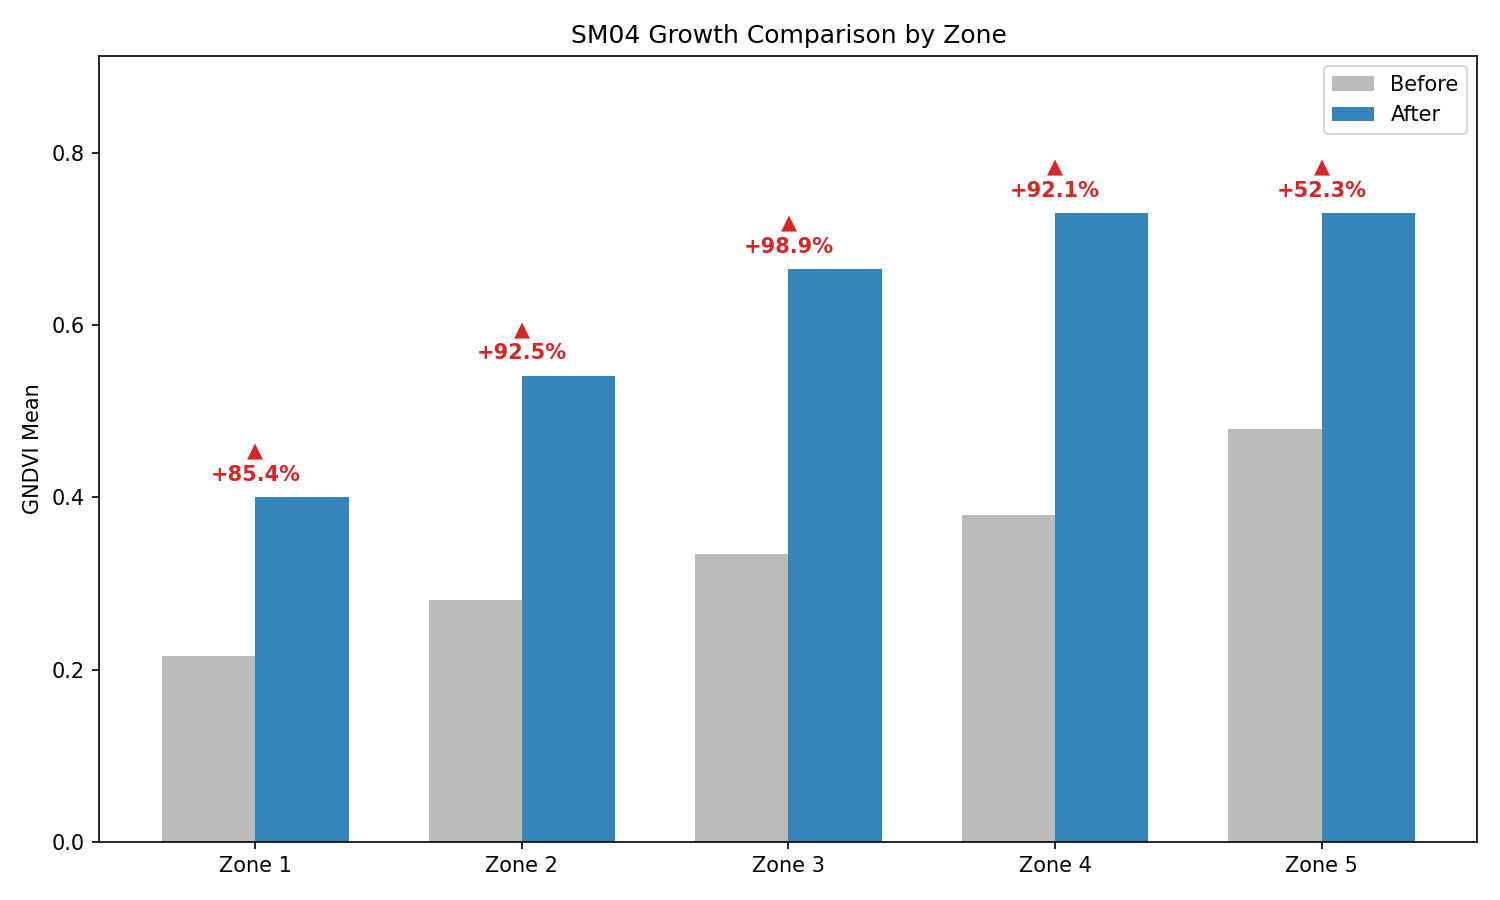
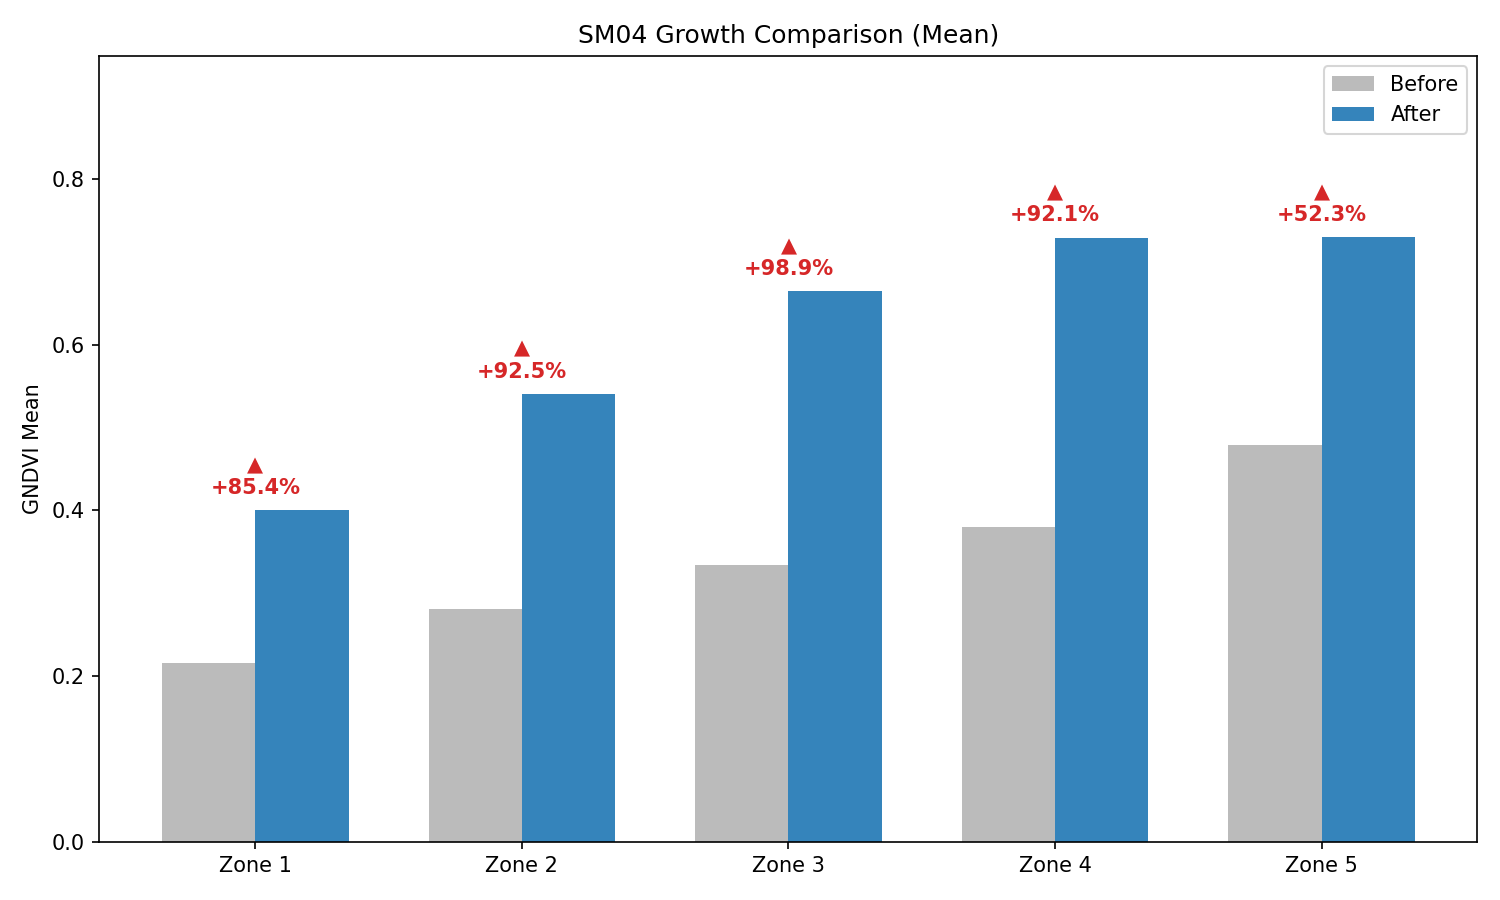
수정수정

diff --git a/1.vra_1m_gndvi.py b/1.vra_1m_gndvi.py
@@ -11,9 +11,9 @@ import matplotlib.patches as mpatches
 # =========================================================
 # [설정 영역] 사용자 경로 및 파라미터
 # =========================================================
-DIR_BEFORE = r"D:\회사관련\VRA_analysis\before_data"  # 기준 (Before)
-DIR_AFTER = r"D:\회사관련\VRA_analysis\after_data"  # 비교 (After)
-DIR_OUTPUT = r"D:\회사관련\VRA_analysis\Result_Images"  # 결과 저장 폴더
+DIR_BEFORE = r"C:\Users\user\Desktop\분석프로젝트\VRA_analysis\before_data"  # 기준 (Before)
+DIR_AFTER = r"C:\Users\user\Desktop\분석프로젝트\VRA_analysis\after_data"  # 비교 (After)
+DIR_OUTPUT = r"C:\Users\user\Desktop\분석프로젝트\VRA_analysis\Result_Images"  # 결과 저장 폴더
 
 # 목표 해상도 (1m)
 TARGET_GSD = 1.0
@@ -190,70 +190,124 @@ def save_growth_plot(growth_map, title, save_path):
 
 
 # ---------------------------------------------------------
-# [시각화 4] 막대그래프 (신규 추가)
+# [시각화 4] 성장 비교 막대그래프 (Mean)
 # ---------------------------------------------------------
 def save_growth_bar_chart(stats_summary, field_code, save_path):
-    """
-    Zone별 Before/After Mean 비교 막대그래프 생성
-    """
     zones = [f"Zone {i}" for i in range(1, 6)]
-    before_means = [d['before'] for d in stats_summary]
-    after_means = [d['after'] for d in stats_summary]
-    rates = [d['rate'] for d in stats_summary]
+    before_means = [d['before_mean'] for d in stats_summary]
+    after_means = [d['after_mean'] for d in stats_summary]
+    rates = [d['growth_rate'] for d in stats_summary]
 
-    x = np.arange(len(zones))  # 레이블 위치
-    width = 0.35  # 막대 너비
+    x = np.arange(len(zones))
+    width = 0.35
 
     fig, ax = plt.subplots(figsize=(10, 6))
-
-    # 막대 생성 (Before: 회색, After: 파란색)
     rects1 = ax.bar(x - width / 2, before_means, width, label='Before', color='#aaaaaa', alpha=0.8)
     rects2 = ax.bar(x + width / 2, after_means, width, label='After', color='#1f77b4', alpha=0.9)
 
-    # 레이블링
     ax.set_ylabel('GNDVI Mean')
-    ax.set_title(f'{field_code} Growth Comparison by Zone')
+    ax.set_title(f'{field_code} Growth Comparison (Mean)')
     ax.set_xticks(x)
     ax.set_xticklabels(zones)
     ax.legend()
 
-    # Y축 범위 설정 (화살표 공간 확보)
     max_val = max(max(before_means), max(after_means)) if before_means else 0
-    ax.set_ylim(0, max_val * 1.25)
+    ax.set_ylim(0, max_val * 1.3)
 
-    # 증감율 텍스트/화살표 표시
     for i in range(len(zones)):
         h_a = after_means[i]
         h_b = before_means[i]
         rate = rates[i]
-
-        if h_b == 0: continue  # 데이터 없는 경우 패스
-
-        # 표시 위치 (더 높은 막대 위)
+        if h_b == 0: continue
         y_pos = max(h_a, h_b) + (max_val * 0.02)
-
-        # 스타일 결정
         if rate > 0:
-            marker = "▲"
-            color = "#d62728"  # 빨강 (성장)
-            text = f"+{rate:.1f}%"
+            marker, color, text = "▲", "#d62728", f"+{rate:.1f}%"
         elif rate < 0:
-            marker = "▼"
-            color = "#1f77b4"  # 파랑 (감소)
-            text = f"{rate:.1f}%"
+            marker, color, text = "▼", "#1f77b4", f"{rate:.1f}%"
         else:
-            marker = "-"
-            color = "black"
-            text = "0.0%"
-
-        # 텍스트 추가
-        ax.text(x[i], y_pos, f"{marker}\n{text}", ha='center', va='bottom',
-                color=color, fontweight='bold', fontsize=10)
+            marker, color, text = "-", "black", "0.0%"
+        ax.text(x[i], y_pos, f"{marker}\n{text}", ha='center', va='bottom', color=color, fontweight='bold', fontsize=10)
 
     plt.tight_layout()
     plt.savefig(save_path, dpi=150)
     plt.close()
     print(f"      └ [이미지 4] {os.path.basename(save_path)}")
+
+
+# ---------------------------------------------------------
+# [시각화 5] 변동계수(CV) 비교 막대그래프 (신규 - 균일도 분석)
+# ---------------------------------------------------------
+def save_cv_chart(stats_summary, field_code, save_path):
+    """
+    Zone별 Before/After 변동계수(CV) 비교 막대그래프
+    - CV = (Std / Mean) * 100
+    - CV가 낮을수록 균일도가 좋음 (감소 = 개선)
+    """
+    zones = [f"Zone {i}" for i in range(1, 6)]
+    before_cvs = [d['before_cv'] for d in stats_summary]
+    after_cvs = [d['after_cv'] for d in stats_summary]
+
+    # CV 변화율 계산
+    rates = []
+    for b, a in zip(before_cvs, after_cvs):
+        if b != 0:
+            rates.append((a - b) / b * 100)
+        else:
+            rates.append(0.0)
+
+    x = np.arange(len(zones))
+    width = 0.35
+
+    fig, ax = plt.subplots(figsize=(10, 6))
+
+    # 막대 생성 (Before: 회색, After: 보라색 계열로 차별화)
+    rects1 = ax.bar(x - width / 2, before_cvs, width, label='Before', color='#aaaaaa', alpha=0.8)
+    rects2 = ax.bar(x + width / 2, after_cvs, width, label='After', color='#9467bd', alpha=0.9)
+
+    ax.set_ylabel('Coefficient of Variation (CV %)')
+    ax.set_title(f'{field_code} Uniformity Comparison (CV = Std/Mean)')
+    ax.set_xticks(x)
+    ax.set_xticklabels(zones)
+    ax.legend()
+
+    # Y축 범위 설정
+    max_val = max(max(before_cvs), max(after_cvs)) if before_cvs else 0
+    if max_val == 0: max_val = 1
+    ax.set_ylim(0, max_val * 1.35)
+
+    # 증감율 및 해석 표시
+    for i in range(len(zones)):
+        h_a = after_cvs[i]
+        h_b = before_cvs[i]
+        rate = rates[i]
+
+        if h_b == 0: continue
+
+        y_pos = max(h_a, h_b) + (max_val * 0.02)
+
+        # CV 해석 로직:
+        # CV 감소(▼) = 상대적 편차 감소 = 균일도 개선 (좋음) -> 파란색
+        # CV 증가(▲) = 상대적 편차 증가 = 균일도 악화 (나쁨) -> 빨간색
+        if rate < 0:
+            marker = "▼"
+            color = "#1f77b4"  # 파랑 (개선됨)
+            text = f"{rate:.1f}%\n(Improved)"
+        elif rate > 0:
+            marker = "▲"
+            color = "#d62728"  # 빨강 (악화됨)
+            text = f"+{rate:.1f}%\n(Worse)"
+        else:
+            marker = "-"
+            color = "black"
+            text = "0.0%"
+
+        ax.text(x[i], y_pos, f"{marker} {text}", ha='center', va='bottom',
+                color=color, fontweight='bold', fontsize=9)
+
+    plt.tight_layout()
+    plt.savefig(save_path, dpi=150)
+    plt.close()
+    print(f"      └ [이미지 5] {os.path.basename(save_path)}")
 
 
 def process_field(field_code):
@@ -276,15 +330,21 @@ def process_field(field_code):
     zone_map = np.zeros_like(data_b, dtype=np.uint8)
     zone_map[mask_b] = np.digitize(data_b[mask_b], bins)
 
-    # Before Stats 계산
+    # Before Stats 계산 (Std 추가)
     before_stats_list = []
     mean_b_list = []
     for z in range(1, 6):
         vals = data_b[(zone_map == z)]
         if len(vals) > 0:
-            stats = {'min': np.min(vals), 'max': np.max(vals), 'mean': np.mean(vals), 'count': len(vals)}
+            stats = {
+                'min': np.min(vals),
+                'max': np.max(vals),
+                'mean': np.mean(vals),
+                'std': np.std(vals),
+                'count': len(vals)
+            }
         else:
-            stats = {'min': 0, 'max': 0, 'mean': 0, 'count': 0}
+            stats = {'min': 0, 'max': 0, 'mean': 0, 'std': 0, 'count': 0}
         before_stats_list.append(stats)
         mean_b_list.append(stats['mean'])
 
@@ -300,15 +360,12 @@ def process_field(field_code):
     # ==========================
     # 이미지 저장
     # ==========================
-    # [1] Before
     save_before_plot(data_b, quantiles, before_stats_list,
                      f"{field_code} Before Status",
                      os.path.join(DIR_OUTPUT, f"{field_code}_01_Before.png"))
-    # [2] After Zone
     save_after_zone_plot(zone_map, data_a_aligned, mean_b_list,
                          f"{field_code} After Status (by Zones)",
                          os.path.join(DIR_OUTPUT, f"{field_code}_02_After_ZoneStats.png"))
-    # [3] Growth Map
     save_growth_plot(growth_map, f"{field_code} Growth Rate (%)",
                      os.path.join(DIR_OUTPUT, f"{field_code}_03_GrowthRate.png"))
 
@@ -322,55 +379,62 @@ def process_field(field_code):
         z_mask = (zone_map == z)
         overlap = z_mask & (data_a_aligned > 0) & (~np.isnan(data_a_aligned))
 
-        # 기본값
+        # Before 값 (전체 Zone 기준)
         mean_b = mean_b_list[z - 1]
+        std_b = before_stats_list[z - 1]['std']
+
+        # CV 계산 (Before)
+        cv_b = (std_b / mean_b * 100) if mean_b != 0 else 0.0
+
         mean_a = 0.0
+        std_a = 0.0
+        cv_a = 0.0
         diff = 0.0
         rate = 0.0
-        a_min, a_max = 0.0, 0.0
         area = 0
 
         if np.sum(overlap) > 0:
             vals_a = data_a_aligned[overlap]
-            vals_b = data_b[overlap]  # 위치 매칭
-
             mean_a = np.mean(vals_a)
-            mean_b_overlap = np.mean(vals_b)  # 겹치는 부분의 Before 평균 (전체 평균과 미세하게 다를 수 있음)
+            std_a = np.std(vals_a)
 
-            # 차트/CSV의 일관성을 위해 겹치는 영역 기준으로 다시 계산하는 것이 더 정확할 수 있으나
-            # 여기서는 전체 Zone 평균(mean_b)과 비교하겠습니다.
+            # CV 계산 (After)
+            cv_a = (std_a / mean_a * 100) if mean_a != 0 else 0.0
 
             diff = mean_a - mean_b
             rate = (diff / mean_b * 100) if mean_b != 0 else 0.0
-
-            a_min, a_max = np.min(vals_a), np.max(vals_a)
             area = np.sum(overlap)
 
-        # CSV 데이터
+        # CV 변화율 (개선도 확인)
+        cv_change = ((cv_a - cv_b) / cv_b * 100) if cv_b != 0 else 0.0
+
         results.append({
             'Field': field_code,
             'Zone': f"Zone {z}",
             'Area_m2': area,
-            'Before_Min': round(before_stats_list[z - 1]['min'], 4),
             'Before_Mean': round(mean_b, 4),
-            'Before_Max': round(before_stats_list[z - 1]['max'], 4),
-            'After_Min': round(a_min, 4),
             'After_Mean': round(mean_a, 4),
-            'After_Max': round(a_max, 4),
-            'Change_Value': round(diff, 4),
-            'Growth_Rate(%)': round(rate, 2)
+            'Growth_Rate(%)': round(rate, 2),
+            'Before_CV(%)': round(cv_b, 2),  # 신규
+            'After_CV(%)': round(cv_a, 2),  # 신규
+            'CV_Change(%)': round(cv_change, 2)  # 신규 (음수면 개선)
         })
 
-        # 차트용 데이터
         stats_summary.append({
-            'before': mean_b,
-            'after': mean_a,
-            'rate': rate
+            'before_mean': mean_b,
+            'after_mean': mean_a,
+            'growth_rate': rate,
+            'before_cv': cv_b,
+            'after_cv': cv_a
         })
 
-    # [4] 막대 그래프 저장
+    # [4] 성장 비교 그래프 저장
     save_growth_bar_chart(stats_summary, field_code,
                           os.path.join(DIR_OUTPUT, f"{field_code}_04_GrowthChart.png"))
+
+    # [5] 변동계수(CV) 비교 그래프 저장 (신규)
+    save_cv_chart(stats_summary, field_code,
+                  os.path.join(DIR_OUTPUT, f"{field_code}_05_CV_Chart.png"))
 
     return results
 
@@ -398,6 +462,14 @@ if __name__ == "__main__":
 
     if all_data:
         df = pd.DataFrame(all_data)
-        csv_path = os.path.join(DIR_OUTPUT, "Zone_Growth_Analysis_Final.csv")
+        # CSV 컬럼 정리
+        cols = ['Field', 'Zone', 'Area_m2',
+                'Before_Mean', 'After_Mean', 'Growth_Rate(%)',
+                'Before_CV(%)', 'After_CV(%)', 'CV_Change(%)']
+
+        final_cols = [c for c in cols if c in df.columns]
+        df = df[final_cols]
+
+        csv_path = os.path.join(DIR_OUTPUT, "Zone_Growth_CV_Analysis.csv")
         df.to_csv(csv_path, index=False, encoding='utf-8-sig')
         print(f"\n>>> 완료. 결과 저장됨: {csv_path}")
